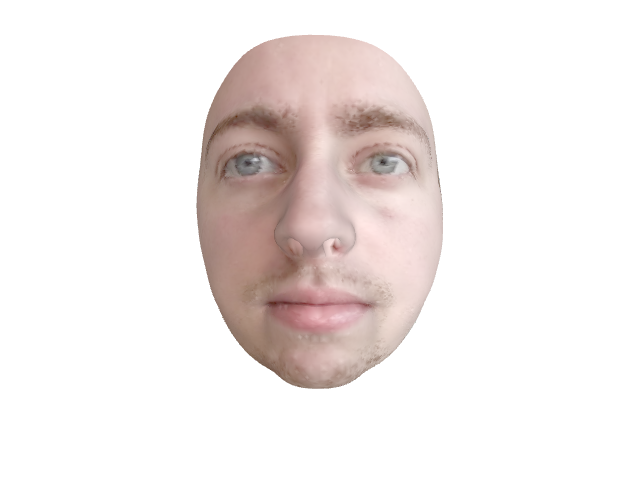
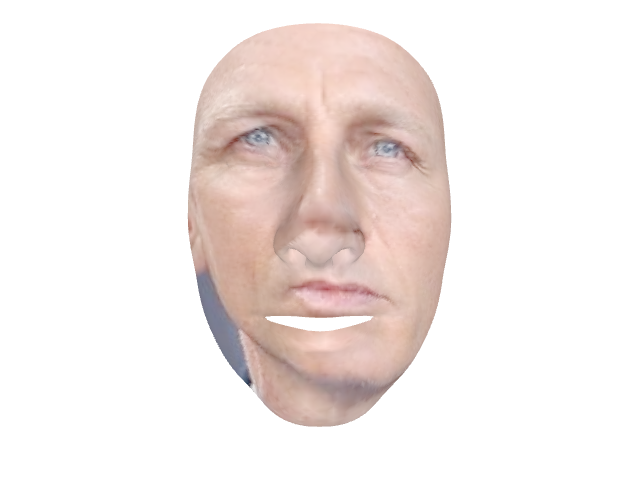
Rendering added

Changed region(s): [[0.2812, 0.0312, 0.7188, 0.9062]]

diff --git a/Assignment_3/latent_param_est.py b/Assignment_3/latent_param_est.py
@@ -35,17 +35,17 @@ def mesh_to_png(file_name, mesh, width=640, height=480, z_camera_translation=275
 
     # compose scene
     scene = pyrender.Scene(ambient_light=np.array([1.7, 1.7, 1.7, 1.0]), bg_color=[255, 255, 255])
-    camera = pyrender.PerspectiveCamera( yfov=np.pi / 3.0)
-    light = pyrender.DirectionalLight(color=[1,1,1], intensity=2e3)
+    camera = pyrender.PerspectiveCamera(yfov=np.pi / 3.0)
+    light = pyrender.DirectionalLight(color=[1, 1, 1], intensity=2e3)
 
     scene.add(mesh, pose=np.eye(4))
     scene.add(light, pose=np.eye(4))
 
     # Added camera translated z_camera_translation in the 0z direction w.r.t. the origin
-    scene.add(camera, pose=[[ 1,  0,  0,  0],
-                            [ 0,  1,  0,  0],
-                            [ 0,  0,  1,  z_camera_translation],
-                            [ 0,  0,  0,  1]])
+    scene.add(camera, pose=[[1, 0, 0, 0],
+                            [0, 1, 0, 0],
+                            [0, 0, 1, z_camera_translation],
+                            [0, 0, 0, 1]])
 
     # render scene
     r = pyrender.OffscreenRenderer(width, height)
@@ -76,11 +76,11 @@ class PerspectiveMatrix(np.ndarray):
     def __new__(cls, *args, **kwargs):
         return np.zeros((4, 4)).view(cls)
 
-    def __init__(self, fov=(1, 1, 100)):
+    def __init__(self, fov=(1, 300, 2000)):
         fov = self.FOV_SETTINGS(*fov)
 
         fovy = 1
-        top = np.tan(fovy/2) * fov.near
+        top = np.tan(fovy / 2) * fov.near
         bottom = -top
         right = top * fov.aspect_ratio
         left = -right
@@ -160,7 +160,8 @@ class EnergyMin(nn.Module):
         lambda_alpha = 50
         lambda_beta = 10
 
-        loss = torch.sum((p2d - g).norm(dim=1).pow(2)) + lambda_alpha * self.alpha.pow(2).sum() + lambda_beta * self.delta.pow(2).sum()
+        loss = torch.sum((p2d - g).norm(dim=1).pow(2)) + lambda_alpha * self.alpha.pow(
+            2).sum() + lambda_beta * self.delta.pow(2).sum()
         return loss
 
     def init_Rt(self):
@@ -268,7 +269,7 @@ def find_corresponding_texture(points, image):
     return new_texture
 
 
-def get_ground_truth_landmarks(img, predictor=None):
+def get_ground_truth_landmarks(img, predictor=None, visualize=False):
     if predictor is None:
         predictor = dlib.shape_predictor("Data/shape_predictor_68_face_landmarks.dat")
 
@@ -276,16 +277,38 @@ def get_ground_truth_landmarks(img, predictor=None):
     dets = detector(img, 1)
     ground_truth = np.array([(point.x, point.y) for point in predictor(img, dets[0]).parts()])
 
+    if visualize:
+        print("HERE")
+        visualize_landmarks(img, dets, predictor)
+
     return ground_truth
+
+
+def visualize_landmarks(img, dets, predictor):
+    win = dlib.image_window()
+    win.clear_overlay()
+    win.set_image(img)
+
+    print("Number of faces detected: {}".format(len(dets)))
+    for k, d in enumerate(dets):
+        print("Detection {}: Left: {} Top: {} Right: {} Bottom: {}".format(
+            k, d.left(), d.top(), d.right(), d.bottom()))
+        # Get the landmarks/parts for the face in box d.
+        shape = predictor(img, d)
+
+        # Draw the face landmarks on the screen.
+        win.add_overlay(shape)
+
+    dlib.hit_enter_to_continue()
 
 
 def exercise_4_and_5(model, optimizer, img, S_land, S_whole, face_model, triangles, number_whole_points):
     basis_shape, basis_expr = face_model
 
-    ground_truth = get_ground_truth_landmarks(img)
+    ground_truth = get_ground_truth_landmarks(img, visualize=True)
     # norm_ground_truth, min_max_gt = normalize_points(ground_truth)
 
-    for i in range(300):
+    for i in range(1):
         optimizer.zero_grad()
         loss = model(S_land, ground_truth)
         loss.backward()
@@ -505,9 +528,9 @@ def main():
     number_whole_points = mean_shape.shape[0]
 
     # Images for exercise 4
-    # img = dlib.load_rgb_image("faces/dan.jpg")
+    img = dlib.load_rgb_image("faces/dan.jpg")
     # img = dlib.load_rgb_image("faces/surprise.png")
-    img = dlib.load_rgb_image("faces/exercise_6/dave1.jpg")
+    # img = dlib.load_rgb_image("faces/exercise_6/dave1.jpg")
 
     # Load video for exercise 7
     # video_cap = cv.VideoCapture("faces/exercise_7/smile.mp4")
